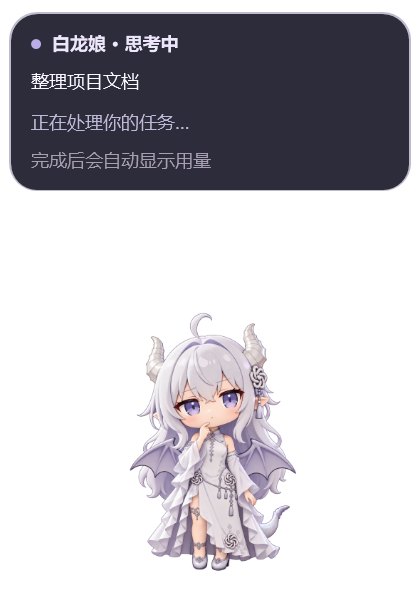
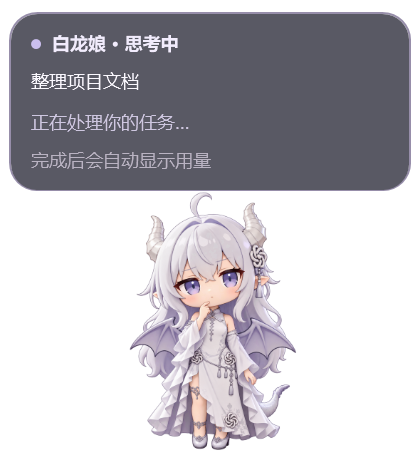
Fit panel height to content and keep the pet close

diff --git a/pet.xaml b/pet.xaml
@@ -1,7 +1,7 @@
 <Window xmlns="http://schemas.microsoft.com/winfx/2006/xaml/presentation" xmlns:x="http://schemas.microsoft.com/winfx/2006/xaml"
- Title="白龙娘 · Codex" Width="304" Height="418.4" WindowStyle="None" AllowsTransparency="True" Background="Transparent" Topmost="True" ShowInTaskbar="False" ResizeMode="NoResize" UseLayoutRounding="True" SnapsToDevicePixels="True">
+ Title="白龙娘 · Codex" Width="304" SizeToContent="Height" WindowStyle="None" AllowsTransparency="True" Background="Transparent" Topmost="True" ShowInTaskbar="False" ResizeMode="NoResize" UseLayoutRounding="True" SnapsToDevicePixels="True">
  <Grid x:Name="Root" Background="Transparent" TextElement.FontFamily="Microsoft YaHei UI" TextElement.FontSize="14">
-  <Grid.RowDefinitions><RowDefinition Height="232"/><RowDefinition Height="*"/></Grid.RowDefinitions>
+  <Grid.RowDefinitions><RowDefinition Height="Auto"/><RowDefinition Height="Auto"/></Grid.RowDefinitions>
   <Border x:Name="Card" Margin="6,8,6,0" Padding="14,12" CornerRadius="18" Background="#F5232230" BorderBrush="#756D628C" BorderThickness="1" VerticalAlignment="Top">
    <StackPanel>
     <DockPanel Margin="0,0,0,10">
@@ -25,7 +25,7 @@
     </StackPanel>
    </StackPanel>
   </Border>
-  <Image x:Name="Dragon" Grid.Row="1" Width="127.2" Height="176.4" Stretch="Uniform" VerticalAlignment="Bottom" Margin="0,0,0,5" RenderTransformOrigin="0.5,1" RenderOptions.BitmapScalingMode="HighQuality">
+  <Image x:Name="Dragon" Grid.Row="1" Width="127.2" Height="176.4" Stretch="Uniform" VerticalAlignment="Top" Margin="0,5,0,5" RenderTransformOrigin="0.5,1" RenderOptions.BitmapScalingMode="HighQuality">
    <Image.RenderTransform><TransformGroup><ScaleTransform x:Name="Breath"/><TranslateTransform x:Name="Float"/></TransformGroup></Image.RenderTransform>
   </Image>
  </Grid>

diff --git a/README.md b/README.md
@@ -30,7 +30,7 @@ powershell.exe -NoProfile -ExecutionPolicy Bypass -STA -File .\pet.ps1
 
 右键菜单的“角色大小”滑块替代原有小／中／大档位。范围为初版角色的 40%–100%，每次调整 5%，默认 60%，已有大小设置保留。拖动即时生效并立即保存；与字号、面板透明度独立。50%／60%／75% 对应此前小／中／大，角色框约 106 × 147、127 × 176、159 × 221 个逻辑像素。调大时会保持窗口在屏幕工作区内。
 
-右键菜单顶部提供字号滑块，范围 10–18，按 1 递增，默认 12。正文、时间、数值、标题和菜单使用所选字号，调整即时生效并立即保存到 `runtime/settings.json`。角色大小独立于字号；卡片随字号调整宽高，避免挤压或裁切。
+右键菜单顶部提供字号滑块，范围 10–18，按 1 递增，默认 12。正文、时间、数值、标题和菜单使用所选字号，调整即时生效并立即保存到 `runtime/settings.json`。角色大小独立于字号；卡片宽度随字号调整，高度随当前内容自动收缩，角色紧挨面板下缘；收起面板时也收起占位空白。
 
 字号滑块下方提供“面板不透明度”滑块，范围 20%–100%，按 5% 递增，默认 95%。100% 完全不透明，20% 更透明。卡片背景、边框和文字一起改变透明度，角色和右键菜单保持清晰。拖动即时生效并立即保存，下次启动沿用设置。
 
